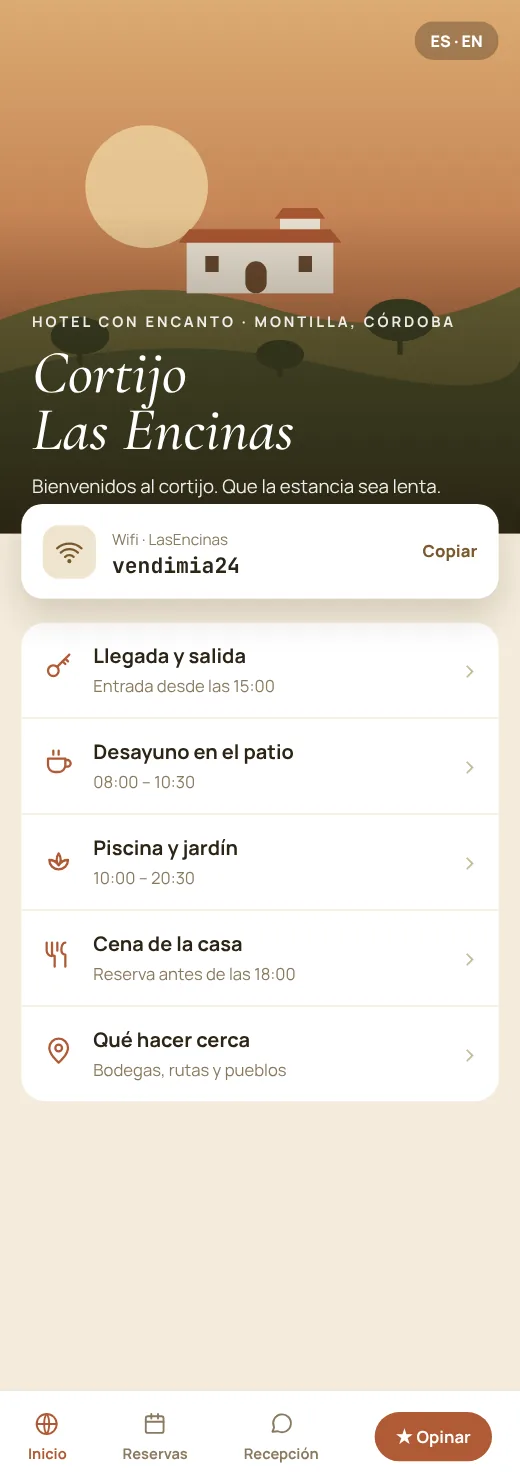
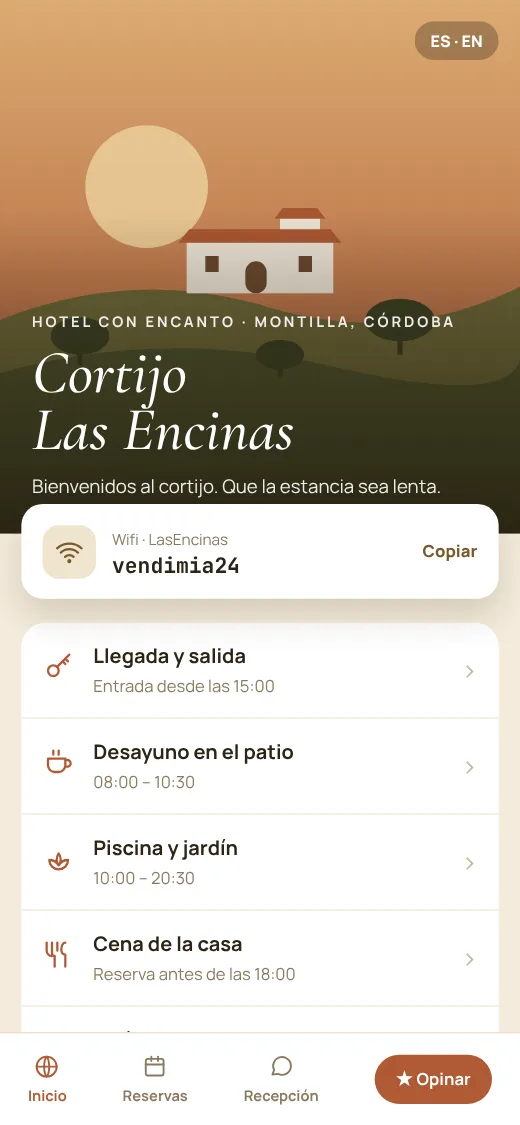
Hoteles: modelos de mini web al tamaño original y 4 diseños nuevos rehechos
Claude-Session: https://claude.ai/code/session_01TTf53Arm2ekRqxFFNx8k97

diff --git a/hoteles/index.html b/hoteles/index.html
@@ -292,16 +292,16 @@
     <button type="button" class="flecha izq" aria-label="Ver modelos anteriores"><svg width="22" height="22" viewBox="0 0 24 24" fill="none" stroke="currentColor" stroke-width="2.2" stroke-linecap="round" stroke-linejoin="round"><path d="M15 5l-7 7 7 7"/></svg></button>
     <div class="carrusel" tabindex="0" aria-label="Ejemplos de mini webs; desliza para ver más">
     <div class="pista">
-        <figure><img src="modelos/boutique.webp" width="520" height="1483" loading="lazy" decoding="async" alt="Ejemplo de mini web: hotel boutique, alojamiento inventado"><figcaption>Hotel boutique</figcaption></figure>
-        <figure><img src="modelos/glamping.webp" width="520" height="1483" loading="lazy" decoding="async" alt="Ejemplo de mini web: glamping, alojamiento inventado"><figcaption>Glamping</figcaption></figure>
-        <figure><img src="modelos/villa-piscina.webp" width="520" height="1483" loading="lazy" decoding="async" alt="Ejemplo de mini web: villa con piscina, alojamiento inventado"><figcaption>Villa con piscina</figcaption></figure>
-        <figure><img src="modelos/surf.webp" width="520" height="1483" loading="lazy" decoding="async" alt="Ejemplo de mini web: surf house, alojamiento inventado"><figcaption>Surf house</figcaption></figure>
-        <figure><img src="modelos/turismo-rural.webp" width="520" height="1483" loading="lazy" decoding="async" alt="Ejemplo de mini web: turismo rural, alojamiento inventado"><figcaption>Turismo rural</figcaption></figure>
-        <figure><img src="modelos/cortijo.webp" width="520" height="1483" loading="lazy" decoding="async" alt="Ejemplo de mini web: hotel con encanto, alojamiento inventado"><figcaption>Hotel con encanto</figcaption></figure>
-        <figure><img src="modelos/camping-lujo.webp" width="520" height="1483" loading="lazy" decoding="async" alt="Ejemplo de mini web: camping de lujo, alojamiento inventado"><figcaption>Camping de lujo</figcaption></figure>
-        <figure><img src="modelos/lumbre.webp" width="520" height="1483" loading="lazy" decoding="async" alt="Ejemplo de mini web: hostal urbano, alojamiento inventado"><figcaption>Hostal urbano</figcaption></figure>
-        <figure><img src="modelos/hotel.webp" width="520" height="1483" loading="lazy" decoding="async" alt="Ejemplo de mini web: hotel, alojamiento inventado"><figcaption>Hotel</figcaption></figure>
-        <figure><img src="modelos/rural.webp" width="520" height="1483" loading="lazy" decoding="async" alt="Ejemplo de mini web: casa rural, alojamiento inventado"><figcaption>Casa rural</figcaption></figure>
+        <figure><img src="modelos/boutique.webp?v=3" width="520" height="1125" loading="lazy" decoding="async" alt="Ejemplo de mini web: hotel boutique, alojamiento inventado"><figcaption>Hotel boutique</figcaption></figure>
+        <figure><img src="modelos/glamping.webp?v=3" width="520" height="1125" loading="lazy" decoding="async" alt="Ejemplo de mini web: glamping, alojamiento inventado"><figcaption>Glamping</figcaption></figure>
+        <figure><img src="modelos/villa-piscina.webp?v=3" width="520" height="1125" loading="lazy" decoding="async" alt="Ejemplo de mini web: villa con piscina, alojamiento inventado"><figcaption>Villa con piscina</figcaption></figure>
+        <figure><img src="modelos/surf.webp?v=3" width="520" height="1125" loading="lazy" decoding="async" alt="Ejemplo de mini web: surf house, alojamiento inventado"><figcaption>Surf house</figcaption></figure>
+        <figure><img src="modelos/turismo-rural.webp?v=3" width="520" height="1125" loading="lazy" decoding="async" alt="Ejemplo de mini web: turismo rural, alojamiento inventado"><figcaption>Turismo rural</figcaption></figure>
+        <figure><img src="modelos/cortijo.webp?v=3" width="520" height="1125" loading="lazy" decoding="async" alt="Ejemplo de mini web: hotel con encanto, alojamiento inventado"><figcaption>Hotel con encanto</figcaption></figure>
+        <figure><img src="modelos/camping-lujo.webp?v=3" width="520" height="1125" loading="lazy" decoding="async" alt="Ejemplo de mini web: camping de lujo, alojamiento inventado"><figcaption>Camping de lujo</figcaption></figure>
+        <figure><img src="modelos/lumbre.webp?v=3" width="520" height="1125" loading="lazy" decoding="async" alt="Ejemplo de mini web: hostal urbano, alojamiento inventado"><figcaption>Hostal urbano</figcaption></figure>
+        <figure><img src="modelos/hotel.webp?v=3" width="520" height="1125" loading="lazy" decoding="async" alt="Ejemplo de mini web: hotel, alojamiento inventado"><figcaption>Hotel</figcaption></figure>
+        <figure><img src="modelos/rural.webp?v=3" width="520" height="1125" loading="lazy" decoding="async" alt="Ejemplo de mini web: casa rural, alojamiento inventado"><figcaption>Casa rural</figcaption></figure>
     </div>
     </div>
     <button type="button" class="flecha der" aria-label="Ver más modelos"><svg width="22" height="22" viewBox="0 0 24 24" fill="none" stroke="currentColor" stroke-width="2.2" stroke-linecap="round" stroke-linejoin="round"><path d="M9 5l7 7-7 7"/></svg></button>
